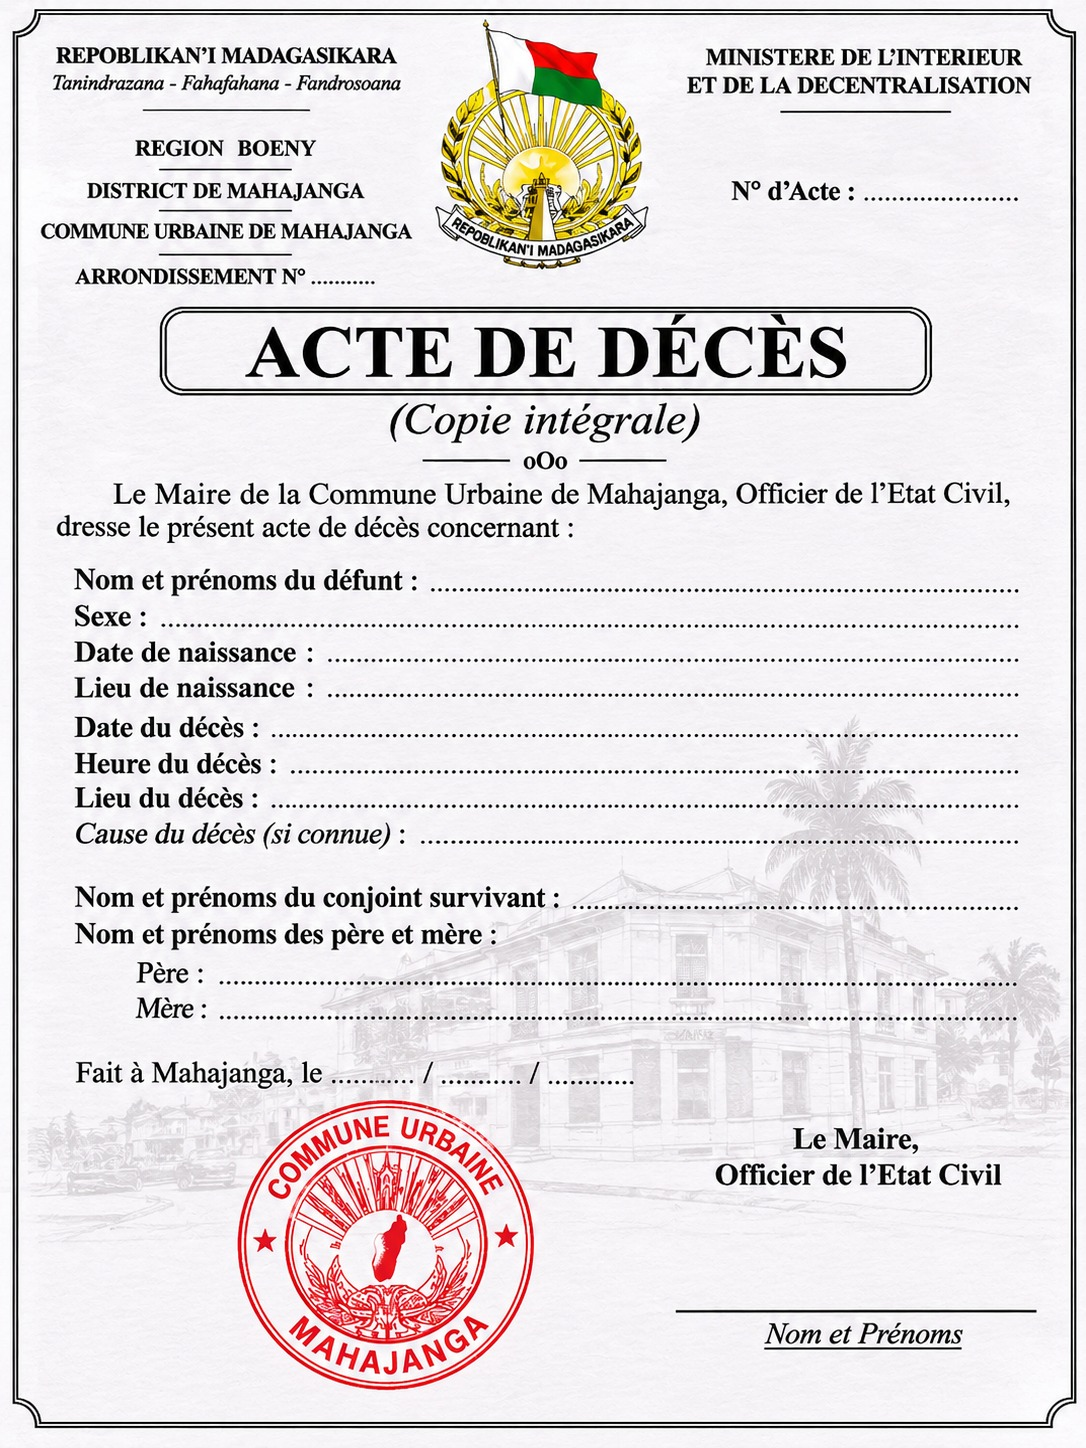
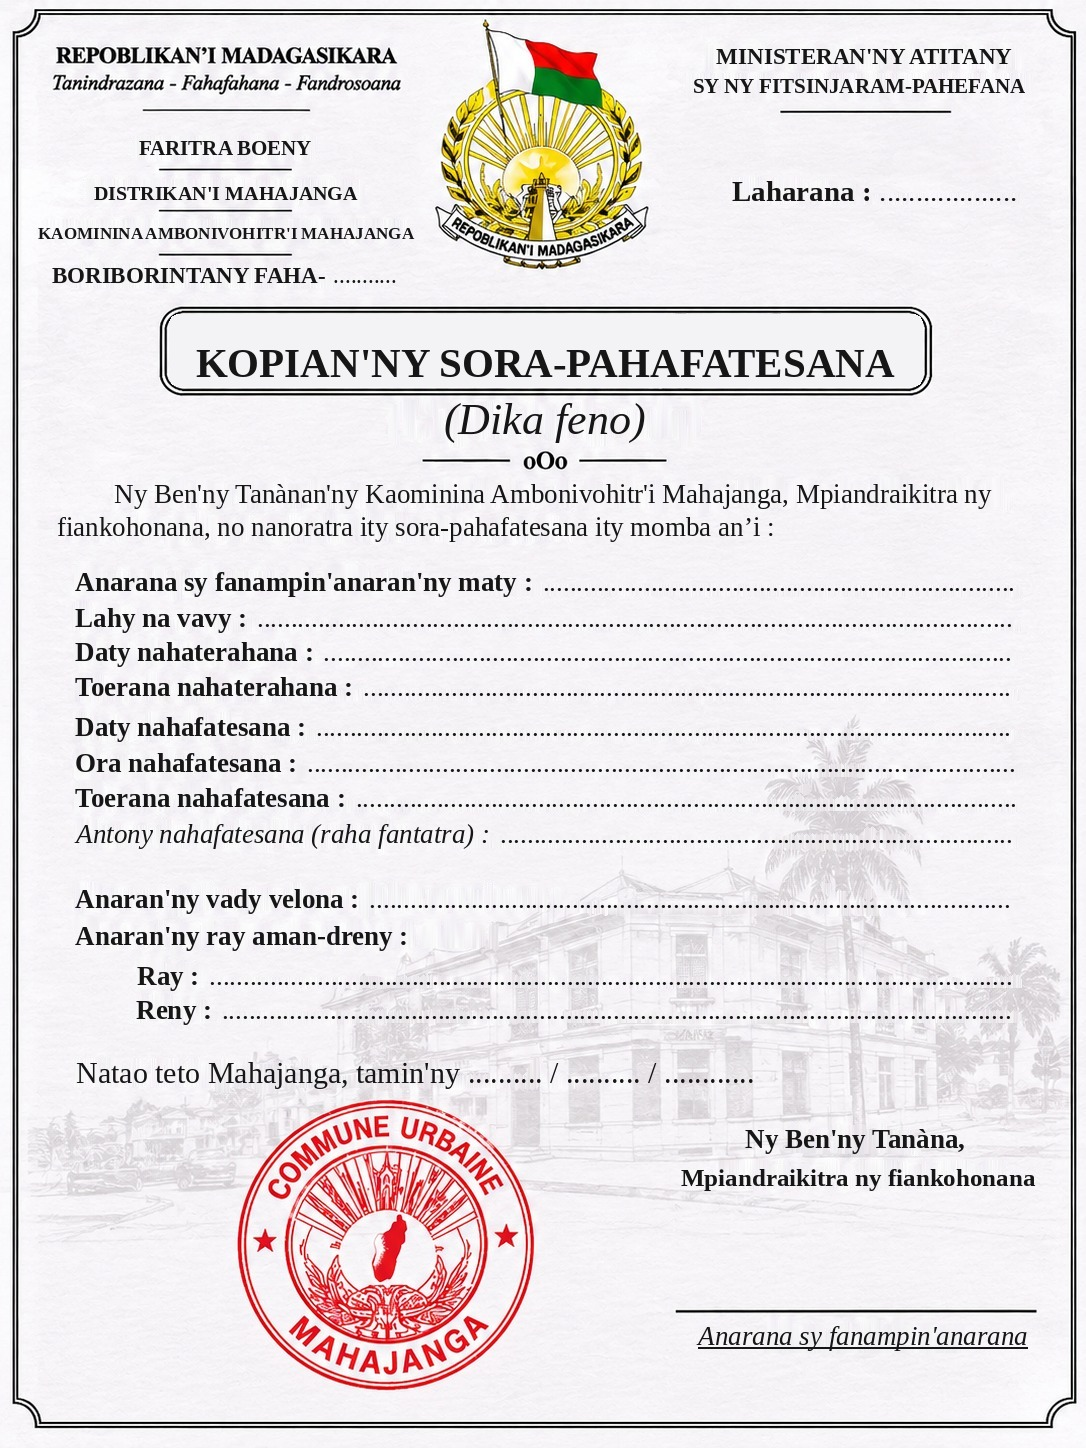
Modèles des actes de naissance et de décès : libellés en malgache
Les libellés français des modèles de la Commune sont réécrits en malgache à
la même place, dans une police équivalente au Times du modèle (« KOPIAN'NY
SORA-PAHATERAHANA », « Natao teto Mahajanga, tamin'ny », « Ny Ben'ny
Tanàna »…). Le fond (papier, filigrane) est reconstitué sous chaque libellé.

- scripts/modeles_actes_mg.py régénère les modèles à partir des originaux
  (static/mairy_admin/actes/originaux/).
- Coordonnées des pointillés mises à jour dans agents/pdf.py.

diff --git a/backend/scripts/modeles_actes_mg.py b/backend/scripts/modeles_actes_mg.py
@@ -1,0 +1,267 @@
+"""
+Génère les modèles malgaches des actes de naissance et de décès à partir des modèles français.
+
+    .venv/bin/python scripts/modeles_actes_mg.py
+
+Lit static/mairy_admin/actes/originaux/acte_{naissance,deces}.jpg (modèles de la Commune, en français),
+efface chaque libellé français (le fond — papier et filigrane — est reconstitué colonne par colonne)
+et le réécrit en malgache, à la même place et dans une police équivalente (Liberation Serif, mêmes
+proportions que Times New Roman). Écrit static/mairy_admin/actes/acte_{naissance,deces}.jpg et
+affiche les coordonnées des pointillés à reporter dans agents/pdf.py.
+"""
+import json
+from pathlib import Path
+
+from PIL import Image, ImageDraw, ImageFont
+
+ACTES = Path(__file__).resolve().parent.parent / 'static' / 'mairy_admin' / 'actes'
+FONTS = Path('/usr/share/fonts/truetype/liberation')
+FACES = {
+    'bold': FONTS / 'LiberationSerif-Bold.ttf',
+    'regular': FONTS / 'LiberationSerif-Regular.ttf',
+    'italic': FONTS / 'LiberationSerif-Italic.ttf',
+}
+INK = (22, 22, 22)
+PAPER = (243, 242, 243)
+DOTS_END = 1017
+
+
+def font(face, size):
+    return ImageFont.truetype(str(FACES[face]), size)
+
+
+def fit_size(face, reference, height):
+    """Taille de police pour que `reference` (le texte français d'origine) ait la hauteur d'encre `height`."""
+    size = height
+    for candidate in range(int(height * 0.8), int(height * 2.2)):
+        top, bottom = font(face, candidate).getbbox(reference, anchor='ls')[1::2]
+        if bottom - top >= height:
+            return candidate
+        size = candidate
+    return size
+
+
+def _is_ink(p, threshold=200):
+    return sum(p) / 3 < threshold
+
+
+def erase(im, box, grow=None):
+    """
+    Efface l'encre (texte, pointillés) de la zone sans toucher au filigrane qui l'entoure : chaque pixel
+    d'encre, élargi de 2 px, est remplacé par l'interpolation verticale des pixels de fond les plus proches.
+    """
+    px = im.load()
+    x0, y0, x1, y1 = box
+    # Halo d'anticrénelage plus large autour des grands caractères (titre).
+    grow = grow or max(3, (y1 - y0) // 12)
+    mask = set()
+    for y in range(y0, y1 + 1):
+        for x in range(x0, x1 + 1):
+            if _is_ink(px[x, y]):
+                for dy in range(-grow, grow + 1):
+                    for dx in range(-grow, grow + 1):
+                        if x0 <= x + dx <= x1 and y0 <= y + dy <= y1:
+                            mask.add((x + dx, y + dy))
+    # Reste du halo gris collé aux lettres : ajouté au masque de proche en proche.
+    pending = [(x, y, 0) for x, y in mask]
+    while pending:
+        x, y, depth = pending.pop()
+        if depth >= 4:  # au plus 4 px : le filigrane plus loin reste intact
+            continue
+        for nx, ny in ((x + 1, y), (x - 1, y), (x, y + 1), (x, y - 1)):
+            if (nx, ny) not in mask and x0 <= nx <= x1 and y0 <= ny <= y1 and _is_ink(px[nx, ny], 228):
+                mask.add((nx, ny))
+                pending.append((nx, ny, depth + 1))
+
+    def clean(x, y, step):
+        """Premier pixel de fond franc (ni encre ni halo) en partant de (x, y), vers le haut ou le bas."""
+        for k in range(12):
+            yy = y + k * step
+            if 0 <= yy < im.height and (x, yy) not in mask and not _is_ink(px[x, yy], 228):
+                return px[x, yy]
+        return None
+
+    for x in range(x0, x1 + 1):
+        y = y0
+        while y <= y1:
+            if (x, y) not in mask:
+                y += 1
+                continue
+            start = y
+            while y <= y1 and (x, y) in mask:
+                y += 1
+            above = clean(x, start - 1, -1)
+            below = clean(x, y, 1)
+            above = above or below or PAPER
+            below = below or above
+            span = y - start + 1
+            for k in range(start, y):
+                t = (k - start + 1) / span
+                px[x, k] = tuple(round(a + (b - a) * t) for a, b in zip(above, below))
+
+
+class Writer:
+    def __init__(self, path):
+        self.im = Image.open(path).convert('RGB')
+        self.draw = ImageDraw.Draw(self.im)
+        self.slots = {}
+
+    def replace(self, band, french, malagasy, face='bold', align='center', max_width=None, erase_box=None):
+        """Remplace le texte `french` (bande d'encre `band` = (y0, y1, x0, x1)) par `malagasy`."""
+        y0, y1, x0, x1 = band
+        erase(self.im, erase_box or (x0 - 3, y0 - 3, x1 + 3, y1 + 3))
+        size = fit_size(face, french, y1 - y0 + 1)
+        top = font(face, size).getbbox(french, anchor='ls')[1]
+        baseline = y0 - top
+        width_limit = max_width or (x1 - x0)
+        while size > 8 and font(face, size).getlength(malagasy) > width_limit:
+            size -= 1
+        f = font(face, size)
+        x = (x0 + x1) / 2 - f.getlength(malagasy) / 2 if align == 'center' else x0
+        self.draw.text((x, baseline), malagasy, font=f, fill=INK, anchor='ls')
+        return x, x + f.getlength(malagasy), baseline, size
+
+    def dots(self, name, left, right, baseline, size):
+        """Pointillés de `left` à `right` ; mémorise la zone pour y écrire la valeur dans le PDF."""
+        f = font('regular', size)
+        count = int((right - left) / f.getlength('.'))
+        self.draw.text((left, baseline), '.' * count, font=f, fill=INK, anchor='ls')
+        self.slots[name] = [round(left), round(left + count * f.getlength('.')), round(baseline)]
+        return left + count * f.getlength('.')
+
+    def row(self, name, band, malagasy, size, baseline, face='bold', dots=True):
+        """Ligne « Libellé : ........ » à la taille commune du formulaire, posée sur la ligne de base d'origine."""
+        y0, y1, x0, _ = band
+        erase(self.im, (x0 - 3, y0 - 3, DOTS_END + 4, y1 + 3))
+        f = font(face, size)
+        self.draw.text((x0, baseline), malagasy, font=f, fill=INK, anchor='ls')
+        if dots:
+            self.dots(name, x0 + f.getlength(malagasy) + 10, DOTS_END, baseline, size)
+
+    def date_line(self, band, french, malagasy):
+        """« Natao teto Mahajanga, tamin'ny ........ / ........ / ........ »."""
+        y0, y1, x0, x1 = band
+        erase(self.im, (x0 - 3, y0 - 3, x1 + 3, y1 + 3))
+        _, end, baseline, size = self.replace((y0, y1, x0, x0 + 2000), french, malagasy, 'regular', 'left',
+                                              erase_box=(x0, y0, x0, y0))
+        f = font('regular', size)
+        slash = f.getlength(' / ')
+        x = end + 8
+        for name, width in (('day', 80), ('month', 80), ('year', 96)):
+            x = self.dots(name, x, x + width, baseline, size)
+            if name != 'year':
+                self.draw.text((x, baseline), ' / ', font=f, fill=INK, anchor='ls')
+                x += slash
+
+    def signature(self, maire, officier, nom):
+        """« Le Maire, Officier de l'Etat Civil » et « Nom et Prénoms » (souligné)."""
+        self.replace(maire, 'Le Maire,', "Ny Ben'ny Tanàna,", max_width=360)
+        self.replace(officier, "Officier de l’Etat Civil", 'Mpiandraikitra ny fiankohonana', max_width=360)
+        y0, y1, x0, x1 = nom
+        erase(self.im, (x0 - 6, y0 - 3, x1 + 6, 1351))
+        left, right, baseline, _ = self.replace(nom, 'Nom et Prénoms', "Anarana sy fanampin'anarana", 'italic',
+                                                max_width=340, erase_box=(x0, y0, x0, y0))
+        self.draw.rectangle((left, 1347, right, 1348), fill=INK)
+
+    def header(self, lines, ministere, acte):
+        """Colonne de gauche (région, district, commune, arrondissement) et de droite (ministère, N° d'acte)."""
+        region, district, commune, arrondissement = lines
+        self.replace(region, 'REGION  BOENY', 'FARITRA BOENY')
+        self.replace(district, 'DISTRICT DE MAHAJANGA', "DISTRIKAN'I MAHAJANGA")
+        self.replace(commune, 'COMMUNE URBAINE DE MAHAJANGA', "KAOMININA AMBONIVOHITR'I MAHAJANGA", max_width=385)
+        y0, y1, x0, x1 = arrondissement
+        erase(self.im, (x0 - 3, y0 - 3, x1 + 3, y1 + 3))
+        label = 'BORIBORINTANY FAHA-'
+        size = fit_size('bold', 'ARRONDISSEMENT N°', y1 - y0 + 1)
+        top = font('bold', size).getbbox('ARRONDISSEMENT N°', anchor='ls')[1]
+        baseline = y0 - top
+        total = font('bold', size).getlength(label) + 8 + 64
+        left = (x0 + x1) / 2 - total / 2
+        self.draw.text((left, baseline), label, font=font('bold', size), fill=INK, anchor='ls')
+        self.dots('arrondissement', left + font('bold', size).getlength(label) + 8, left + total, baseline, size)
+
+        ministere_1, ministere_2 = ministere
+        self.replace(ministere_1, 'MINISTERE DE L’INTERIEUR', "MINISTERAN'NY ATITANY")
+        self.replace(ministere_2, 'ET DE LA DECENTRALISATION', "SY NY FITSINJARAM-PAHEFANA", max_width=345)
+        y0, y1, x0, x1 = acte
+        erase(self.im, (x0 - 3, y0 - 3, 1022, y1 + 3))
+        _, end, baseline, size = self.replace((y0, y1, x0, x0 + 2000), 'N° d’Acte :', 'Laharana :', 'bold',
+                                              'left', erase_box=(x0, y0, x0, y0))
+        self.dots('act_number', end + 8, 1018, baseline, size)
+
+    def title(self, band, french, malagasy, subtitle, inside, erase_box=None):
+        # L'intérieur du cadre du titre est du papier uni : repeint d'un aplat plutôt que reconstitué.
+        x0, y0, x1, y1 = inside
+        px = self.im.load()
+        paper = sorted(px[x, y] for x in range(x0, x1, 7) for y in (y0, y1) if not _is_ink(px[x, y], 228))
+        self.draw.rounded_rectangle(inside, radius=9, fill=paper[len(paper) // 2] if paper else PAPER)
+        self.replace(band, french, malagasy, max_width=700, erase_box=erase_box or (x0, y0, x0, y0))
+        self.replace(subtitle, '(Copie intégrale)', '(Dika feno)', 'italic')
+
+    def save(self, path):
+        self.im.save(path, quality=92, optimize=True)
+
+
+def naissance():
+    w = Writer(ACTES / 'originaux' / 'acte_naissance.jpg')
+    w.header(
+        [(146, 161, 135, 319), (192, 208, 89, 365), (238, 254, 40, 413), (281, 295, 84, 374)],
+        [(52, 68, 710, 1020), (80, 96, 694, 1029)],
+        (182, 200, 733, 1015),
+    )
+    w.title((342, 390, 201, 888), 'ACTE DE NAISSANCE', "KOPIAN'NY SORA-PAHATERAHANA", (417, 455, 398, 692),
+            inside=(154, 331, 932, 399))
+    w.date_line((1050, 1075, 71, 621), 'Fait à Mahajanga, le', "Natao teto Mahajanga, tamin'ny")
+    w.signature((1106, 1131, 783, 906), (1143, 1165, 697, 989), (1323, 1343, 751, 951))
+    w.save(ACTES / 'acte_naissance.jpg')
+    return w.slots
+
+
+def deces():
+    w = Writer(ACTES / 'originaux' / 'acte_deces.jpg')
+    w.header(
+        [(140, 155, 136, 314), (183, 200, 88, 363), (223, 239, 41, 411), (268, 283, 76, 373)],
+        [(49, 64, 707, 1021), (77, 93, 688, 1030)],
+        (181, 200, 732, 1017),
+    )
+    # Accents de « DÉCÈS » au-dessus des majuscules : effacés avec le titre.
+    w.title((327, 377, 245, 845), 'ACTE DE DECES', "KOPIAN'NY SORA-PAHAFATESANA", (403, 442, 391, 698),
+            inside=(169, 314, 922, 386))
+    # Introduction : deux lignes à la même taille (mesurée sur la seconde ligne d'origine).
+    first_line = "Ny Ben'ny Tanànan'ny Kaominina Ambonivohitr'i Mahajanga, Mpiandraikitra ny"
+    intro = fit_size('regular', 'dresse le présent acte de décès concernant :', 542 - 515 + 1) + 1
+    while font('regular', intro - 1).getlength(first_line) > 1008 - 114:
+        intro -= 1
+    for box in ((111, 479, 1011, 512), (54, 512, 574, 545)):
+        erase(w.im, box)
+    w.draw.text((114, 503), first_line,
+                font=font('regular', intro - 1), fill=INK, anchor='ls')
+    w.draw.text((57, 536), 'fiankohonana, no nanoratra ity sora-pahafatesana ity momba an’i :',
+                font=font('regular', intro - 1), fill=INK, anchor='ls')
+    # Lignes du formulaire : même taille pour toutes, posées sur la ligne des pointillés d'origine.
+    size = fit_size('bold', 'Date de naissance :', 661 - 642 + 1)
+    rows = [
+        ('deceased', (569, 595, 75), 591, "Anarana sy fanampin'anaran'ny maty :", 'bold'),
+        ('sex', (605, 626, 75), 627, 'Lahy na vavy :', 'bold'),
+        ('birth_date', (642, 661, 75), 661, 'Daty nahaterahana :', 'bold'),
+        ('birth_place', (677, 697, 75), 696, 'Toerana nahaterahana :', 'bold'),
+        ('death_date', (716, 736, 75), 736, 'Daty nahafatesana :', 'bold'),
+        ('death_time', (753, 773, 75), 772, 'Ora nahafatesana :', 'bold'),
+        ('death_place', (787, 807, 75), 807, 'Toerana nahafatesana :', 'bold'),
+        ('cause', (823, 848, 76), 843, 'Antony nahafatesana (raha fantatra) :', 'italic'),
+        ('spouse', (886, 912, 75), 908, "Anaran'ny vady velona :", 'bold'),
+        ('father', (962, 984, 137), 985, 'Ray :', 'bold'),
+        ('mother', (998, 1019, 136), 1019, 'Reny :', 'bold'),
+    ]
+    for name, (y0, y1, x0), baseline, malagasy, face in rows:
+        w.row(name, (y0, y1, x0, None), malagasy, size, baseline, face)
+    erase(w.im, (72, 920, 498, 952))
+    w.draw.text((75, 945), "Anaran'ny ray aman-dreny :", font=font('bold', size), fill=INK, anchor='ls')
+    w.date_line((1062, 1088, 76, 632), 'Fait à Mahajanga, le', "Natao teto Mahajanga, tamin'ny")
+    w.signature((1128, 1150, 793, 917), (1164, 1184, 716, 1000), (1323, 1343, 765, 961))
+    w.save(ACTES / 'acte_deces.jpg')
+    return w.slots
+
+
+if __name__ == '__main__':
+    print(json.dumps({'naissance': naissance(), 'deces': deces()}, indent=1))

diff --git a/backend/agents/pdf.py b/backend/agents/pdf.py
@@ -731,8 +731,8 @@ def _signatures(entries):
 
 
 # -- Actes de naissance et de décès : modèle officiel imprimé ------------------------------
-# Le PDF reprend à l'identique le modèle de la Commune (image de fond : en-tête, armoiries,
-# cachet, filigrane) et écrit les valeurs sur ses lignes pointillées. Toujours en français.
+# Le PDF reprend le modèle de la Commune (image de fond : en-tête, armoiries, cachet, filigrane),
+# libellés traduits en malgache (scripts/modeles_actes_mg.py), et écrit les valeurs sur ses pointillés.
 # Coordonnées en pixels de l'image modèle (1086 × 1448) : (début des pointillés, ligne des pointillés).
 TEMPLATES_DIR = Path(settings.BASE_DIR) / 'static' / 'mairy_admin' / 'actes'
 TEMPLATE_SIZE = (1086, 1448)
@@ -753,21 +753,21 @@ def _death_template(act):
     return {
         'image': 'acte_deces.jpg',
         'fields': [
-            ((862, 198), act.act_number, 1018),
-            ((312, 283), '', 376),
-            ((431, 590), f'{act.deceased_last_name.upper()} {act.deceased_first_names}', DOTS_END),
-            ((163, 626), sex, DOTS_END),
-            ((328, 660), _mg_date(act.deceased_birth_date), DOTS_END),
-            ((328, 695), act.deceased_birth_place, DOTS_END),
-            ((272, 735), _mg_date(died), DOTS_END),
-            ((291, 771), lettres_mg.time_digits(died), DOTS_END),
-            ((272, 806), act.death_place, DOTS_END),
-            ((421, 842), '', DOTS_END),  # cause du décès : non enregistrée
-            ((573, 907), act.spouse_name, DOTS_END),
-            ((220, 983), father, DOTS_END),
-            ((221, 1018), mother, DOTS_END),
+            ((869, 201), act.act_number, 1017),
+            ((333, 283), '', 397),  # boriborintany : rempli à la main
+            ((543, 591), f'{act.deceased_last_name.upper()} {act.deceased_first_names}', DOTS_END),
+            ((257, 627), sex, DOTS_END),
+            ((323, 661), _mg_date(act.deceased_birth_date), DOTS_END),
+            ((363, 696), act.deceased_birth_place, DOTS_END),
+            ((316, 736), _mg_date(died), DOTS_END),
+            ((307, 772), lettres_mg.time_digits(died), DOTS_END),
+            ((356, 807), act.death_place, DOTS_END),
+            ((500, 843), '', DOTS_END),  # antony nahafatesana : non enregistré
+            ((369, 908), act.spouse_name, DOTS_END),
+            ((209, 985), father, DOTS_END),
+            ((222, 1019), mother, DOTS_END),
         ],
-        'date': (1082, (330, 412), (440, 520), (548, 632)),
+        'date': (1083, (468, 543), (566, 641), (664, 754)),
         'signature': (856, 1300),
     }
 
@@ -782,9 +782,9 @@ FRAMED_TEMPLATES = {
     'BirthCertificate': {
         'image': 'acte_naissance.jpg',
         'header_cut': 485,           # en-tête : du haut jusqu'au filet « ooo » sous le titre
-        'footer_cut': 1040,          # pied de page : de « Fait à Mahajanga, le… » jusqu'en bas
-        'act_number': (872, 1018, 198),
-        'date': (1070, (328, 405), (424, 505), (526, 622)),
+        'footer_cut': 1040,          # pied de page : de « Natao teto Mahajanga, tamin'ny… » jusqu'en bas
+        'act_number': (881, 1013, 201),
+        'date': (1070, (450, 530), (552, 632), (654, 749)),
         'signature': (847, 1300),
     },
 }
